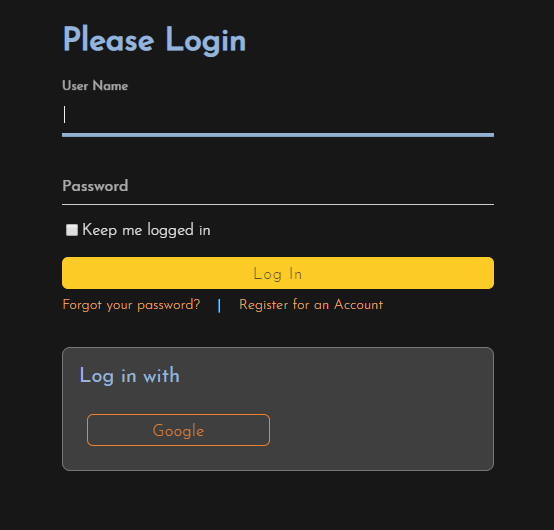
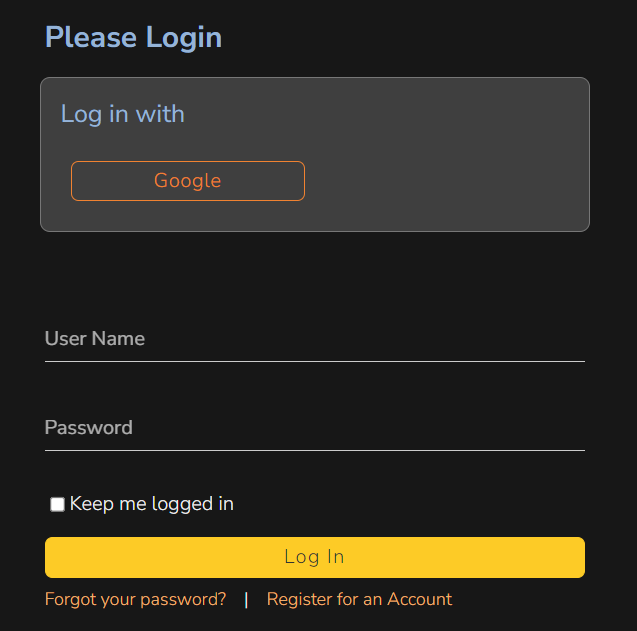
[TK:7503] updates docs for 7.11

diff --git a/docs/Spira-Administration-Guide/System.md b/docs/Spira-Administration-Guide/System.md
@@ -114,13 +114,37 @@ The following settings can be changed within the system, once you are satisfied,
 - **Password Change Interval**: If set to a value, it will require all password to be changed after the specified number of days.
 - **Require Password Change on First Login**: Enabling this requires all new users to change their password on first login.
 - **Disallow Names in Passwords**: If enabled, passwords cannot contain the user's real name and/or username.
-- **Enable 2-Step Authentication**: If enabled (the default), users can add a one-time password to their profile in addition to their primary password for added security. This feature is available to users who authenticate using the application's username and password system, or with LDAP. Users who authenticate with an external provider can not use SpiraPlan's 2-step authentication. Users can manage their one-time passwords on their [User Profile](../../Spira-User-Manual/User-Product-Management/#2-step-authentication). Administrators can remove a one-time password for a user from [Edit User](../System-Users/#edit-an-existing-user) page. 
+- **Enable [2-Step](#enable-2-step-authentication) Authentication**: If enabled (the default), users can add a one-time password to their profile in addition to their primary password for added security. This feature is available to users who authenticate using the application's username and password system, or with LDAP. Users who authenticate with an external provider can not use SpiraPlan's 2-step authentication. Users can manage their one-time passwords on their [User Profile](../../Spira-User-Manual/User-Product-Management/#2-step-authentication). Administrators can remove a one-time password for a user from [Edit User](../System-Users/#edit-an-existing-user) page. 
 {: #enable-2-step-authentication}
 
-!!! hint "2-Step Authentication tips"
+!!! hint "2-Step Authentication tips"   
     - Once enabled, users with a one-time password must enter it on each login to access the system.
     - If the global security setting is ever disabled, user with a one-time password will immediately not need to provide that password to login.
     - If installing on-premise, the web server must have the correct time. Any minor deviation from the correct time will mean users' one-time passwords will not be in sync with the server and they will not be able to login. 
+
+- **[Enforce](#enforce-provider-login) Provider Login**: If enabled (default is disabled), users cannot connect an existing user to a Provider account, and cannot unlink an account for a Provider. Users must register new accounts using a Provider account 
+{: #enforce-provider-login}
+
+!!! hint "How does enforcing Provider login work?"
+    This setting is useful for organizations who have at least one [login provider](../System-Users/#login-providers) configured (where users can login with an SSO provider like Google or Microsoft). It limits the way that users can manage their account and that new users can register. We recommend it for organization looking to make sure all their users only login using a provider.
+    
+    With this setting enabled the following changes are made to the system:
+
+    - the option to register a new account is removed from the login page
+    - To create a Spira account, users must click the button for the relevant provider on the login page to add that provider account as a new SSO user in Spira
+    - users who login with a provider can no longer go to their [My Profile](../../Spira-User-Manual/User-Product-Management/#my-profile) and disconnect from that provider
+    
+    The following functionality is not affected by this change:
+
+    - Users who already login with a username and password can continue to login as normal (note that the username and password fields remain visible on the login page but are de-emphasized)
+    - LDAP users can continue to login as normal
+    - System administrators can create new users with standard username and password credentials
+    - System administrators can unlink an existing user from a provider
+
+    Before enabling this setting, consider the following points:
+
+    - Make sure you have at least one login provider configured, active, and working correctly
+    - If you have existing users, check if any of them are logging in with LDAP or a standard username and password. If you want them to login with a provider, migrate them before enabling this setting (as they will not be able to do with the setting enabled)
 
 - **Authentication Expiration**: This specifies the amount of time (in minutes - minimum of 2) after which a user will be logged out due to inactivity when they login without choosing the 'Keep Me Logged-In' option.
 - **Keep Me Logged-In Expiration**: This specifies the amount of time (in minutes - minimum of 2) after which a user will be logged out due to inactivity if they have chosen to login with the 'Keep Me Logged-In' option. This should normally be longer than the previous setting.

diff --git a/docs/Spira-User-Manual/User-Product-Management.md b/docs/Spira-User-Manual/User-Product-Management.md
@@ -5,7 +5,7 @@ This section outlines how you can log into SpiraPlan®, view your personalized h
 
 ## Login Screen
 
-Upon entering the SpiraPlan® URL provided by your system administrator into your browser, you will see the following login screen:
+Upon entering the Spira URL provided by your system administrator into your browser, you will see the following login screen:
 
 ![](img/UserProduct_Management_33.png)
 
@@ -36,22 +36,20 @@ Since SpiraPlan® is licensed to organizations for a specific number of concurre
 This means that one of the other users who is already logged-in, needs to click the "Log Out" button so that one of the concurrent licenses is freed for your use. If the user has logged out by closing the browser, the system may not have detected the logout. In this case, the other user needs to log back in, and then click the "Log Out" link.
 
 ## Logging in Using An External Provider
-If your organisation uses a Single Sign On / OAuth provider like Okta or Google, underneath the standard username and password field you will see a button for each enabled provider. 
+If your organization uses a Single Sign On / OAuth provider like Okta or Google, above the standard username and password field you will see a button for each enabled provider. 
 
 ![sign in to Spira using an external provider](img/UserProduct_Management_oauth-login-page.png)
 
 To login using your account with this provider:
 
-1. click on the provider button
-2. follow the instructions from the provider (eg log in to or select your account, and provide authorisation)
-3. when you get back to the SpiraPlan login screen, you can connect that provider account to an existing SpiraPlan user
-4. Follow the on screen instructions to enter the username and password of your SpiraPlan user and click `Login`. You are now connected to this provider!
-5. Alternatively, you can choose to set up a new SpiraPlan account with that external provider account (if allowed by your system admin). Click the link and follow the on screen instructions to complete the registration. Once successful, your system admin will be alerted to the new user request
-6. Once they have approved you, you are all set
+1. Click on the provider button
+2. Follow the instructions from the provider (eg log in to or select your account, and provide authorization)
+4. When you get back to the Spira login screen, you can set up a new SpiraPlan account with that external provider account. Click the link and follow the on screen instructions to complete the registration. Once successful, your system admin will be alerted to the new user request. Once they have approved you, you can login.
+3. Alternatively, you can, if allowed by your organization, connect that provider account to an existing Spira user. Follow the on screen instructions to enter the username and password of your Spira user and click `Login`. You are now connected to this provider. 
 
 ![options to connect to an external provider](img/UserProduct_Management_oauth-login-connect-account.png)
 
-Once you have a SpiraPlan user that authenticates with the provider, to log in to Spira click the provider button on the login page.
+Once you have a Spira user that authenticates with the provider, to log in to Spira click the provider button on the login page.
 
 
 

diff --git a/docs/About/release-notes-v7.md b/docs/About/release-notes-v7.md
@@ -3,7 +3,7 @@
 ## Version 7.11 (January 2024)
 
 !!! success "New Features"
-    - Add a security setting to let system admins enforce users to login using an OAuth Login Provider [RQ:4707]
+    - Add a security setting to let system admins [enforce users to login using an OAuth Login Provider](../../Spira-Administration-Guide/System/#enforce-provider-login) [RQ:4707]
     - Update the fonts to a consolidated and more legible font [IN:8832]
 
 ??? bug "Bug fixes and enhancements"
